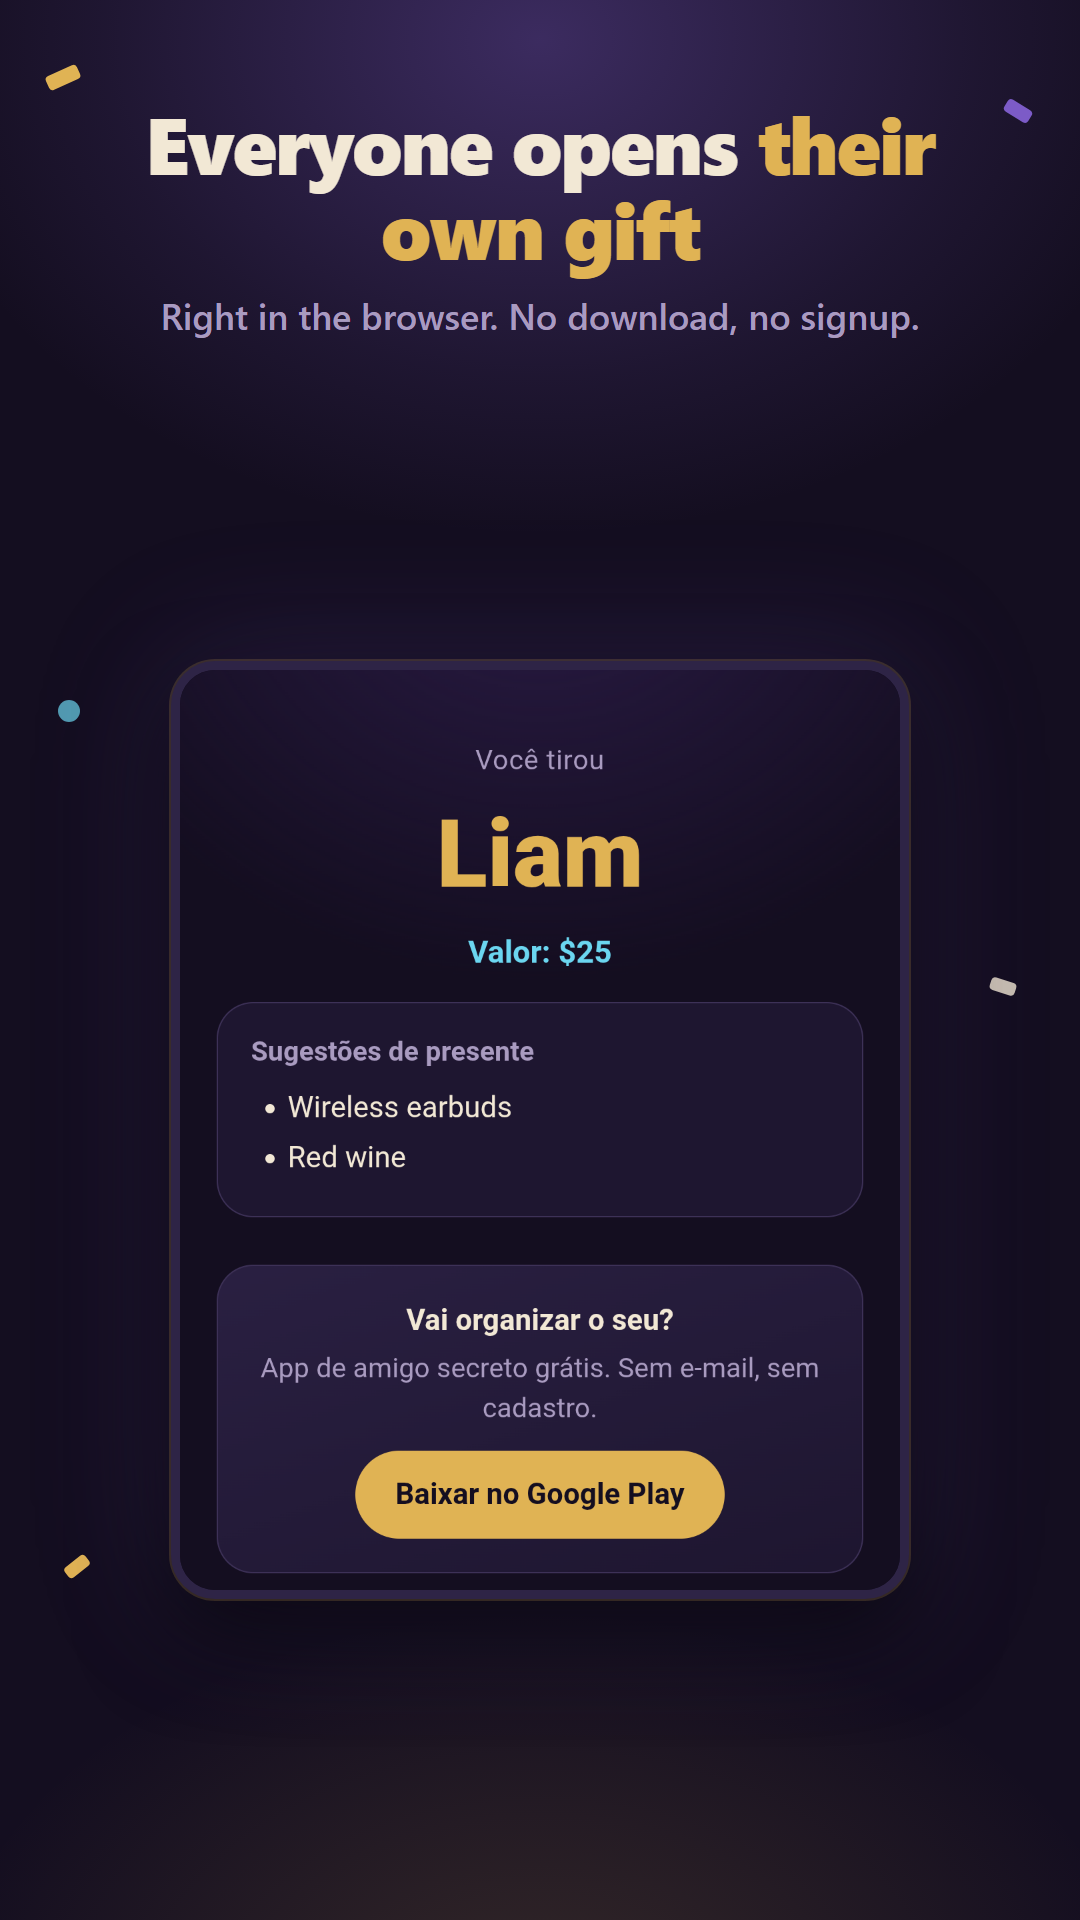
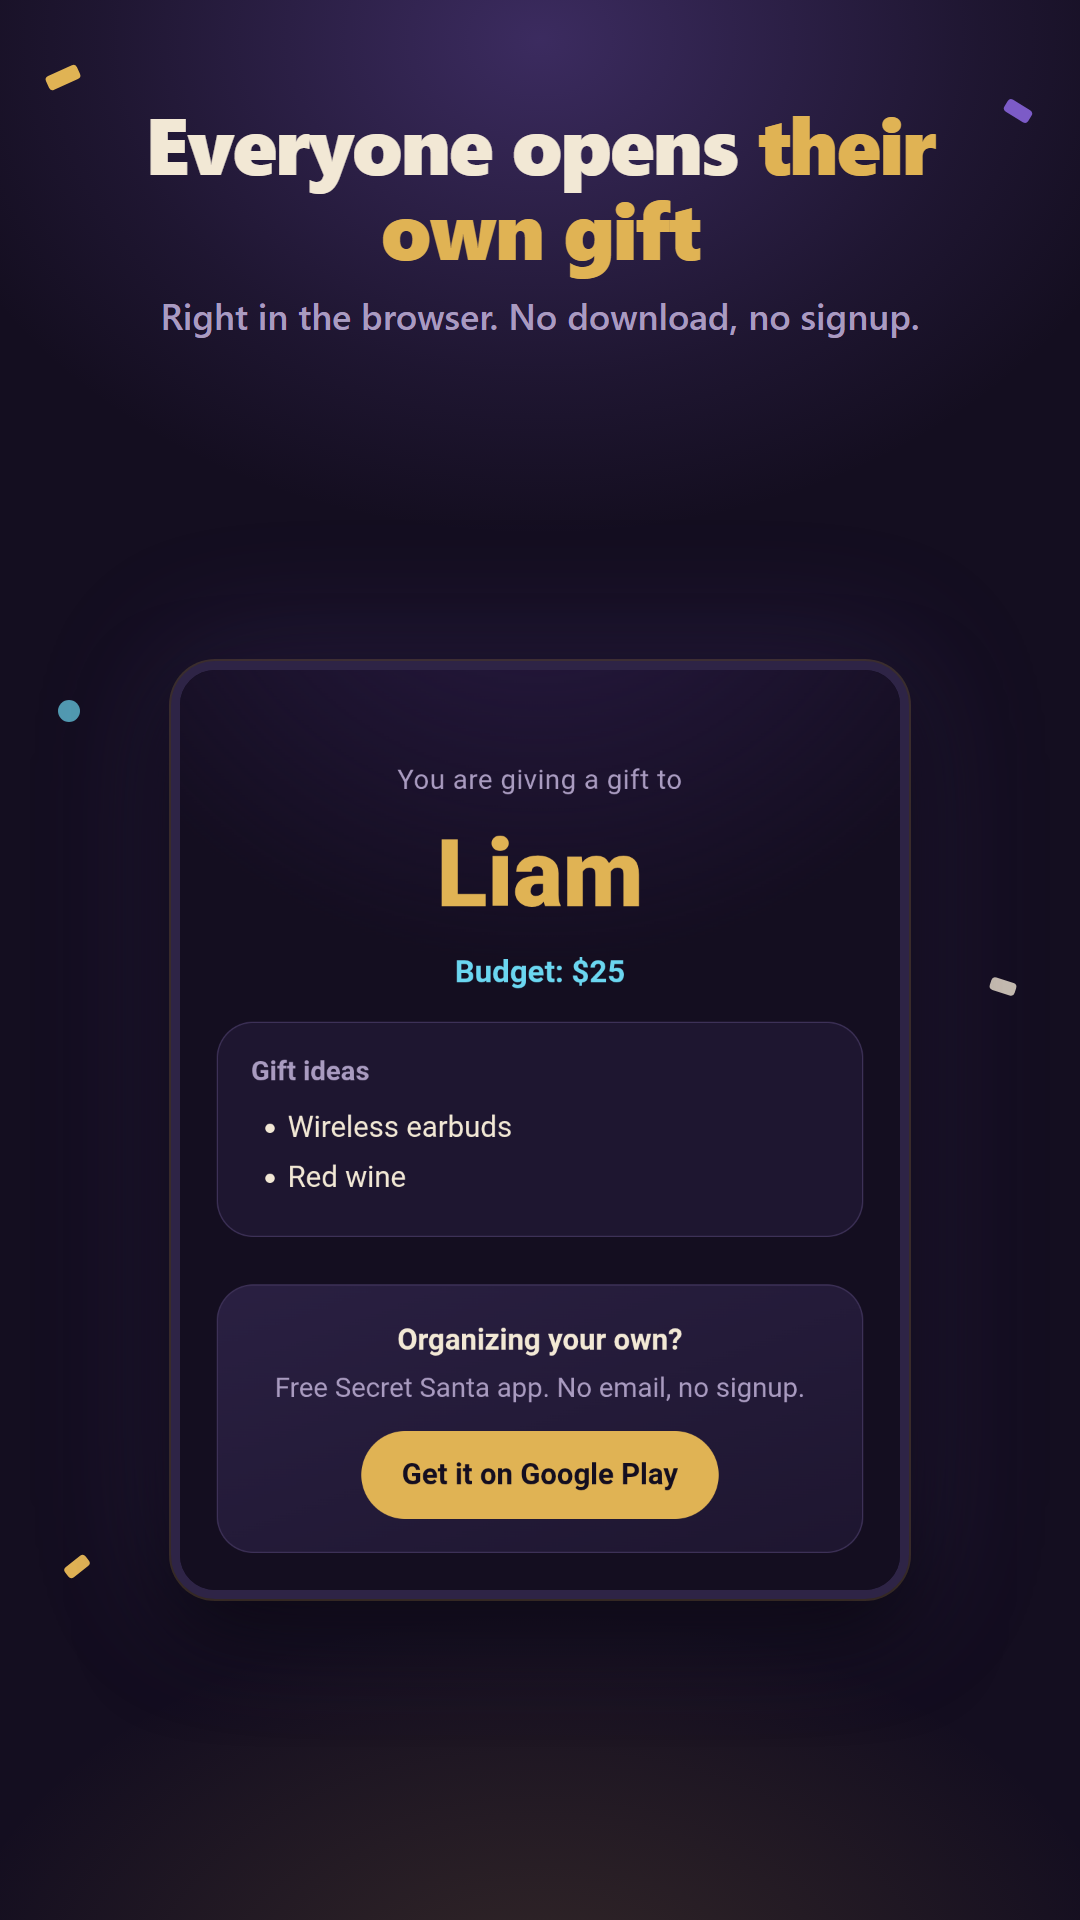
Loja: capturas e gráficos em alemão, francês e italiano
Capturas reais do Redmi nos três idiomas, render.sh com de/fr/it e a
captura do presente em inglês refeita (a anterior estava em português).
README registra a verificação do consentimento europeu.

Changed region(s): [[0.1833, 0.6562, 0.7944, 0.8125], [0.2139, 0.375, 0.6111, 0.625]]

diff --git a/playstore/src/feature.html b/playstore/src/feature.html
@@ -21,9 +21,9 @@
     pt: { art: "key-pt.jpg", t: "Sorteie. <em>Ninguém espia.</em>", s: "Amigo secreto sem e-mail e sem cadastro" },
     en: { art: "key-en.jpg", t: "Draw names. <em>Nobody peeks.</em>", s: "Secret Santa with no email and no signup" },
     es: { art: "key-en.jpg", t: "Sortea. <em>Nadie espía.</em>", s: "Amigo invisible sin correo y sin registro" },
-    de: { art: "key-en.jpg", t: "Auslosen. <em>Keiner linst.</em>", s: "Wichteln ohne E-Mail und ohne Anmeldung" },
+    de: { art: "key-en.jpg", t: "Auslosen.<br><em>Keiner linst.</em>", s: "Wichteln ohne E-Mail und ohne Anmeldung" },
     fr: { art: "key-en.jpg", t: "Tire au sort. <em>Zéro triche.</em>", s: "Père Noël secret sans e-mail ni inscription" },
-    it: { art: "key-en.jpg", t: "Estrai. <em>Nessuno sbircia.</em>", s: "Babbo Natale segreto senza email né registrazione" }
+    it: { art: "key-en.jpg", t: "Estrai.<br><em>Nessuno sbircia.</em>", s: "Babbo Natale segreto senza email né registrazione" }
   };
   var lang = new URLSearchParams(location.search).get("lang");
   var t = T[lang] || T.pt;

diff --git a/playstore/src/shot.html b/playstore/src/shot.html
@@ -173,7 +173,10 @@
   if (slide.s) sub.textContent = slide.s; else sub.classList.add("hidden");
 
   if (slide.img) {
-    var crop = CROPS[slide.img];
+    // Nas capturas en/de/fr/it o Chrome do aparelho já tinha a barra no topo em outro
+    // layout, o que desloca a página de revelação ~80 px para baixo.
+    var late = { en: 1, de: 1, fr: 1, it: 1 }[lang] && slide.img === "reveal";
+    var crop = late ? { top: 532, bottom: 1912 } : CROPS[slide.img];
     var header = document.querySelector("header").getBoundingClientRect();
     var available = 1920 - header.bottom - 110;          // folga para respirar embaixo
     var cropHeight = crop.bottom - crop.top;

diff --git a/README.md b/README.md
@@ -94,16 +94,13 @@ sai de `adb exec-out run-as com.borzanti.secretsanta.debug cat files/datastore/s
 
 ## Pendências depois da aprovação
 
-- [ ] **Europa.** Em 16/09 a mensagem GDPR do AdMob ("LuckyDraw GDPR", com os três
-      apps) estava publicada, mas o UMP respondia `NOT_REQUIRED` para o App ID real
-      mesmo com a geografia EEA simulada — com o App ID de exemplo do Google o
-      formulário aparecia, então o problema é do lado da conta. Hipótese: o AdMob só
-      aplica a mensagem depois que o app é vinculado à loja. Passos: vincular à loja
-      (abaixo), `adb shell pm clear com.borzanti.secretsanta.debug`, abrir o debug e
-      procurar `privacyOptions=REQUIRED` no logcat da tag `ConsentManager` (ou o
-      formulário na tela). Quando aparecer, adicionar os 32 países em Produção →
-      Países/regiões (não exige nova versão).
-- [ ] **AdMob → Apps → Secret Santa → Vincular à loja.**
+- [ ] **Europa.** Consentimento verificado em 09/10/2026: com o app vinculado à
+      loja, o build de debug (geografia EEA simulada, App ID real) mostrou o
+      formulário do UMP no Redmi e registrou `privacyOptions=REQUIRED`; recusar o
+      consentimento mantém o app funcionando e o menu "Opções de privacidade"
+      aparece. Falta só adicionar os 32 países (EEE, Reino Unido e Suíça) em
+      Produção → Países/regiões (não exige nova versão).
+- [x] **AdMob → Apps → Secret Santa → Vincular à loja.**
 - [ ] Conferir a ficha pública nos 3 idiomas e o botão "Baixar no Google Play" da
       página dos links e da landing.
 - [ ] Próxima versão: nada pendente no código; o hash de teste da versão da Play já

diff --git a/playstore/README.md b/playstore/README.md
@@ -430,7 +430,7 @@ I nomi e le idee regalo restano sul tuo telefono. Il risultato viaggia dentro og
 Gratis, con pubblicità.
 ```
 
-> **Capturas de/fr/it.** Os textos dos slides já estão em `src/shot.html` e
-> `src/feature.html`, mas faltam os prints reais em `src/shots-de|fr|it/`
-> (`links`, `reveal`, `group`, `rules`, `mode`). Depois de capturá-los no
-> aparelho, inclua `de fr it` no laço de `render.sh`.
+> **Capturas de/fr/it.** Feitas em 09/10/2026 no Redmi, com o build de debug em
+> cada idioma, e já enviadas às fichas de-DE, fr-CA, fr-FR e it-IT junto com os
+> gráficos de destaque. A captura do presente em inglês (`shots-en/reveal.png`)
+> foi refeita no mesmo dia: a anterior estava com o texto em português.
